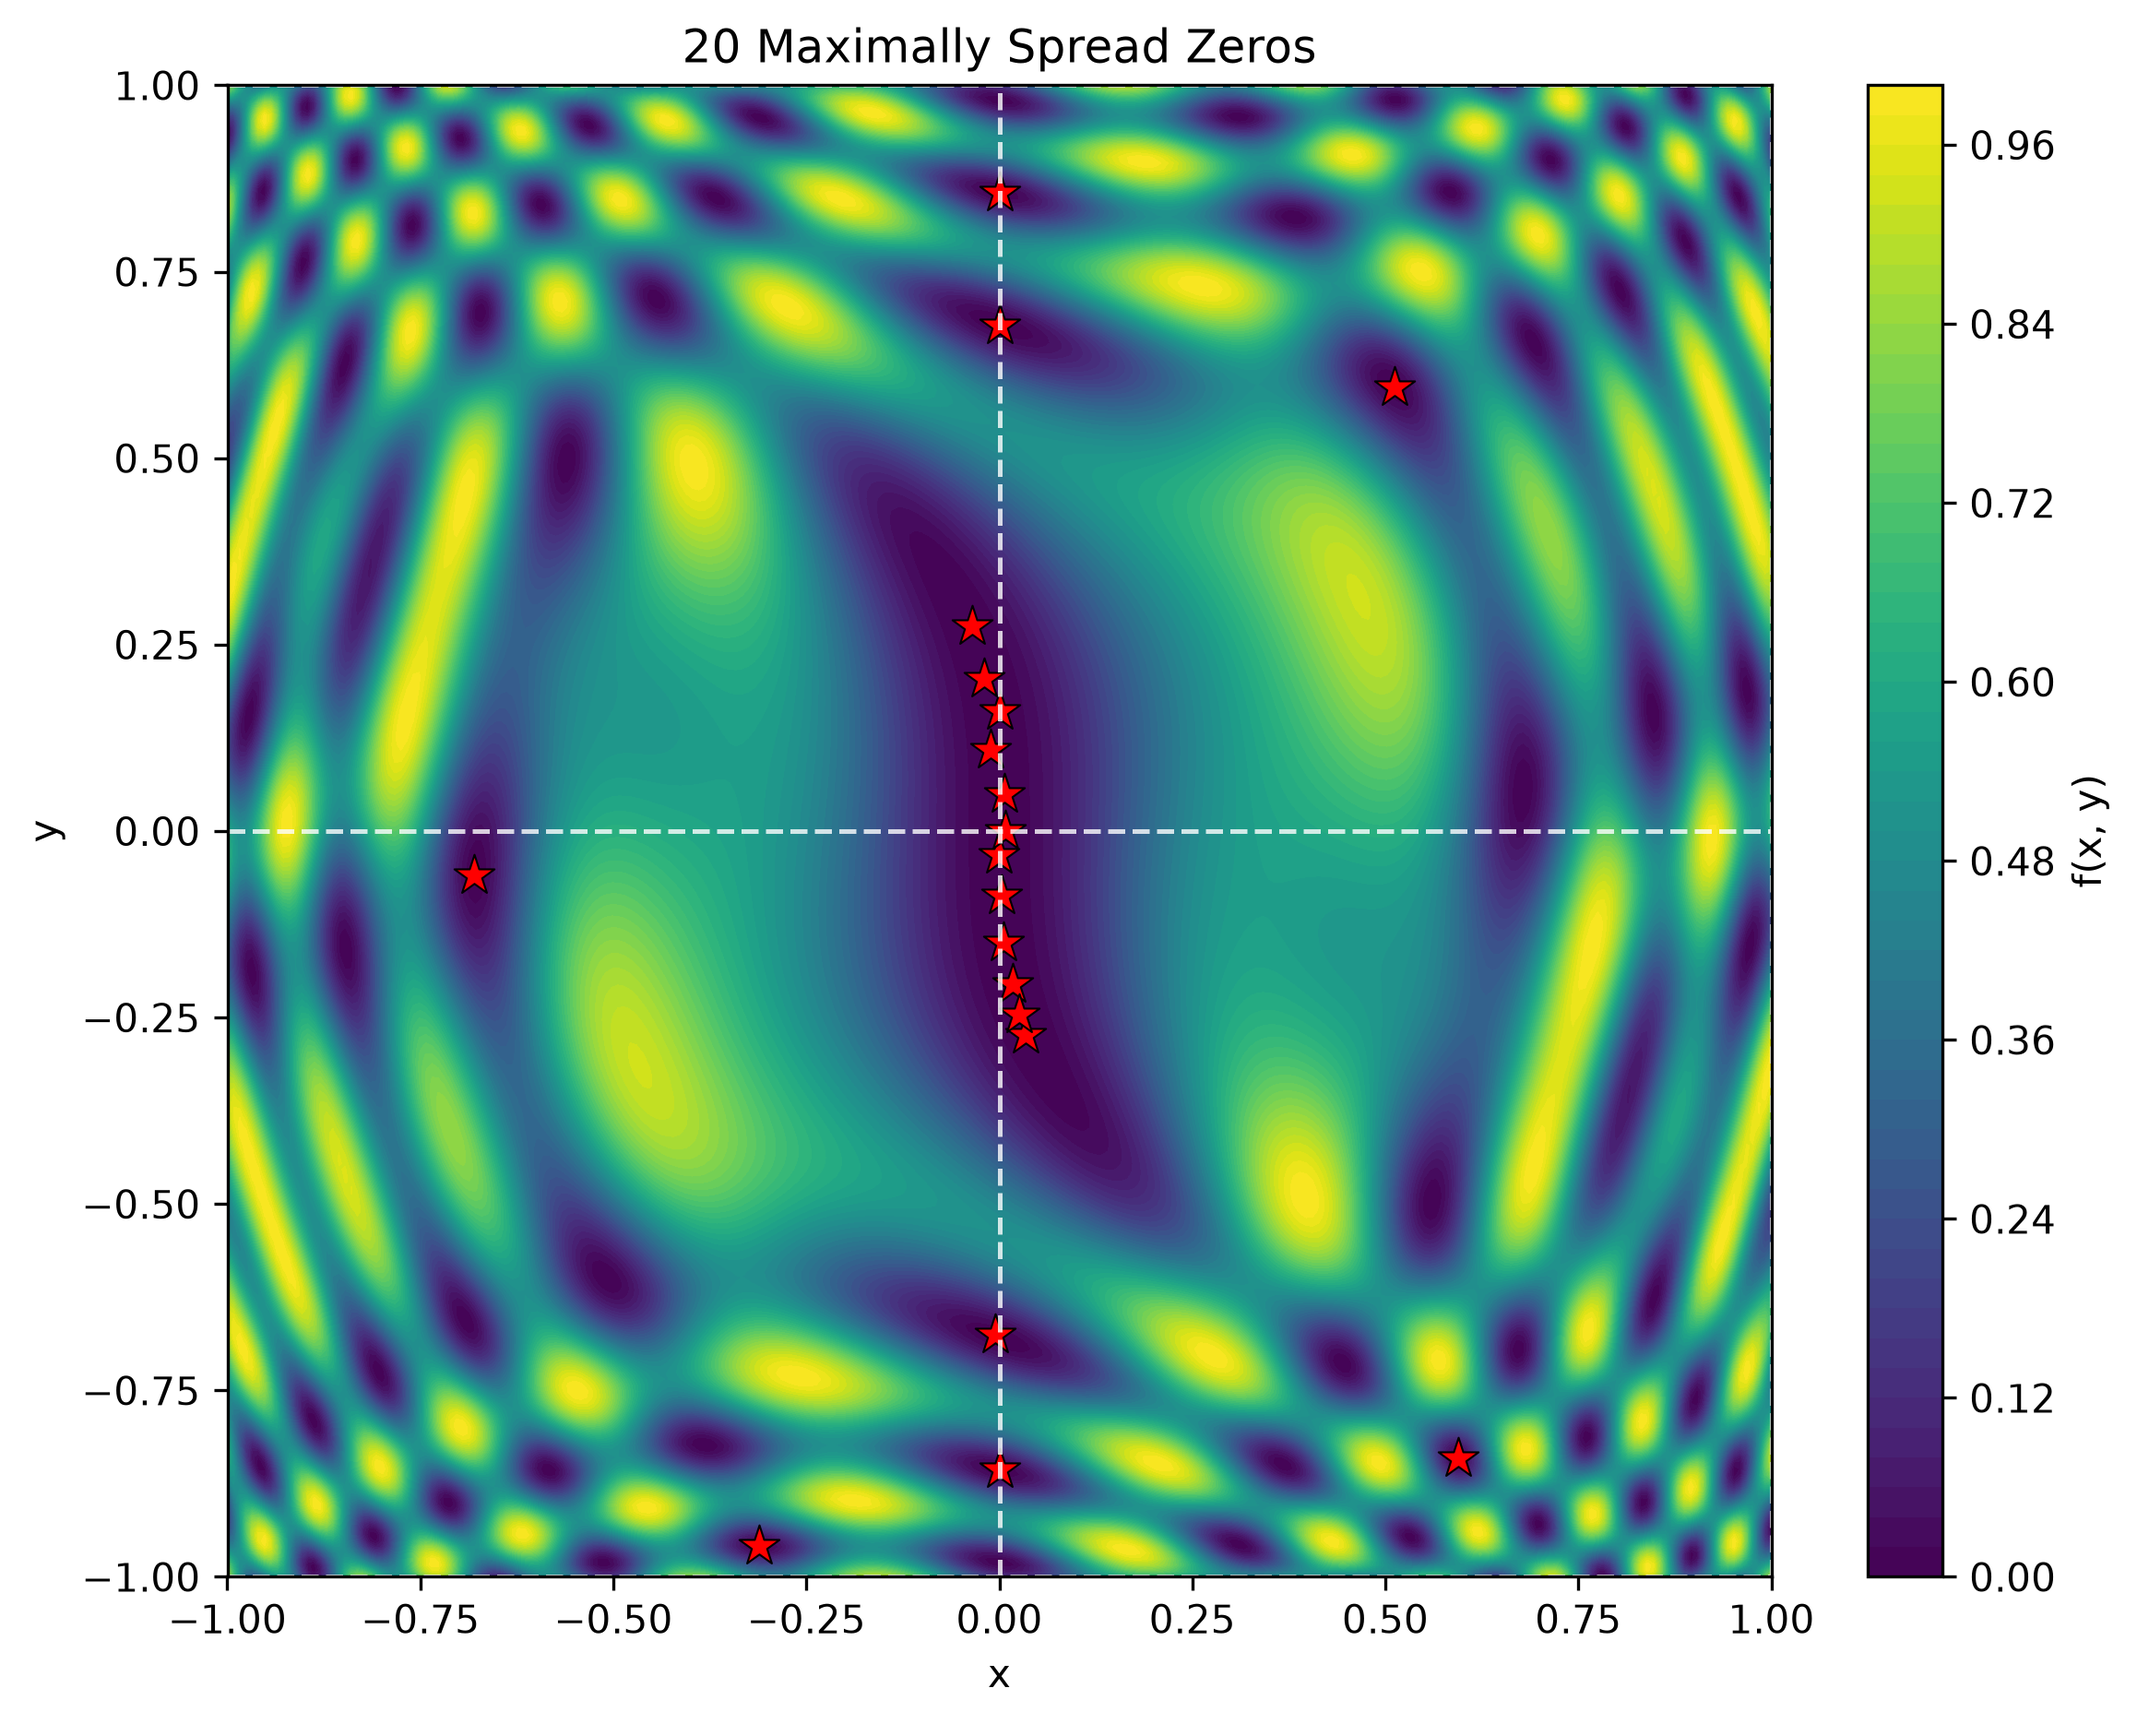
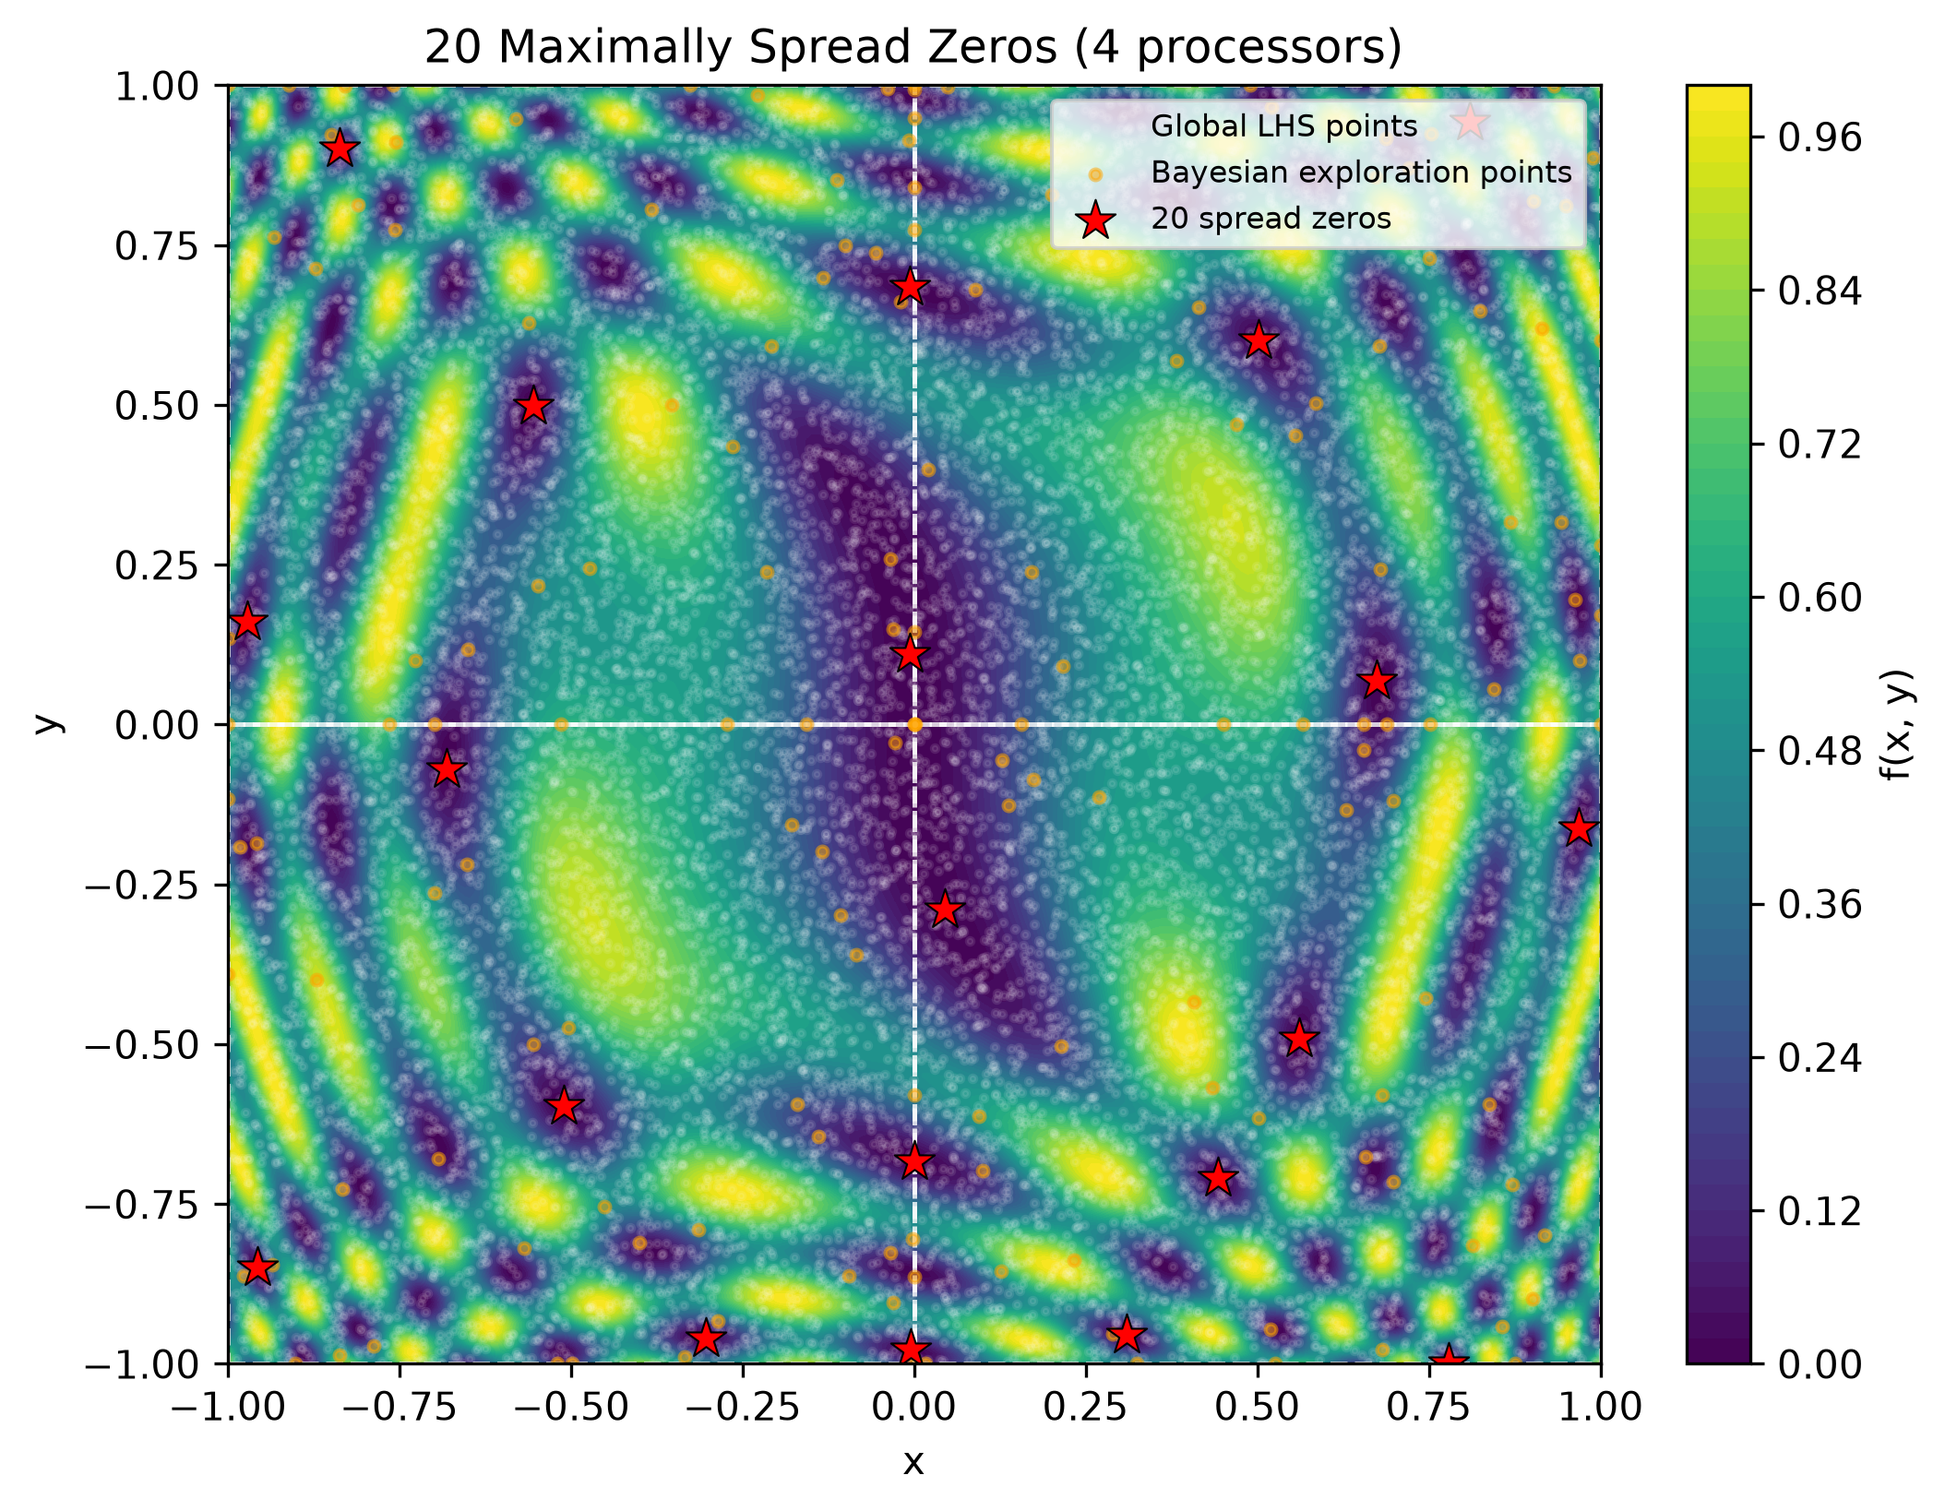
Clean optimization code and provide output and graphs as results

diff --git a/project2/optimization.py b/project2/optimization.py
@@ -1,17 +1,20 @@
 import math
 import matplotlib.pyplot as plt
-from mpi4py import MPI
 import numpy as np
 import pandas as pd
-from scipy.spatial.distance import cdist
+from matplotlib.patches import Rectangle
+from mpi4py import MPI
 from xopt import VOCS, Evaluator, Xopt
-from xopt.generators.bayesian import UpperConfidenceBoundGenerator, BayesianExplorationGenerator
+from xopt.generators.bayesian import BayesianExplorationGenerator
 from xopt.generators.scipy.latin_hypercube import LatinHypercubeGenerator
-from xopt.generators.ga.cnsga import CNSGAGenerator
 
 COMM = MPI.COMM_WORLD
 rank = COMM.Get_rank()
 size = COMM.Get_size()
+
+# Constants
+BOUNDS = (-1.0, 1.0)
+NUM_ZEROS = 20
 
 
 def equation(x, y):
@@ -24,28 +27,9 @@ def evaluate(inputs):
   return {"f": float(equation(inputs["x"], inputs["y"]))}
 
 
-def select_maxmin_dispersion(candidates, k=20):
-  """Select k candidates that are maximally spread apart."""
-  if len(candidates) <= k:
-    return candidates
-
-  dist_matrix = cdist(candidates, candidates)
-  selected_indices = [0]
-  min_dists = dist_matrix[:, 0]
-
-  for _ in range(1, k):
-    next_idx = np.argmax(min_dists)
-    selected_indices.append(next_idx)
-    min_dists = np.minimum(min_dists, dist_matrix[:, next_idx])
-  return candidates[selected_indices]
-
-
 def split_into_grid(z):
-  """Split the grid into even sections, one section per processor"""
+  """Split the domain into an n x n grid of sections, one per processor."""
   n = math.isqrt(z)
-  if n * n != z:
-    raise ValueError("Number of processors must be a perfect square.")
-
   edges = np.linspace(-1, 1, n + 1)
   sections = []
   for i in range(n):
@@ -58,128 +42,161 @@ def split_into_grid(z):
 
   return sections
 
-def space_filter_data(df, min_dist=0.05):
-    """Filters data so no two points are closer than min_dist in parameter space."""
-    kept_rows = []
-    points = df[["x", "y"]].to_numpy()
+def select_maxmin_dispersion(candidates, k=NUM_ZEROS):
+  """Greedy farthest-point selection of k candidates."""
+  if len(candidates) <= k:
+    return candidates
 
-    for i, pt in enumerate(points):
-        if not kept_rows:
-            kept_rows.append(i)
-            continue
+  selected = [0]
+  min_dists = np.linalg.norm(candidates - candidates[0], axis=1)
+  for _ in range(1, k):
+    nxt = int(np.argmax(min_dists))
+    selected.append(nxt)
+    min_dists = np.minimum(
+        min_dists, np.linalg.norm(candidates - candidates[nxt], axis=1)
+    )
+  return candidates[selected]
 
-        # Distance to previously accepted points
-        dists = np.linalg.norm(points[kept_rows] - pt, axis=1)
-        if np.all(dists >= min_dist):
-            kept_rows.append(i)
 
-    return df.iloc[kept_rows]
+def space_filter_data(df):
+  """Remove points so that no two are closer than 0.02 apart"""
+  points = df[["x", "y"]].to_numpy()
+  kept = []
+  for i, pt in enumerate(points):
+    if not kept or np.all(np.linalg.norm(points[kept] - pt, axis=1) >= 0.02):
+      kept.append(i)
+  return df.iloc[kept]
+
+
+def reduce_seed_data(df, rng):
+  """Thin and cap the seed data: half the best points, half random."""
+  df = space_filter_data(df)
+  if len(df) <= 200:
+    return df
+
+  # Bias towards points that are close to 0 and than select 100 additional, regardless of closeness to 0.
+  best = df.nsmallest(100, "f")
+  rest = df.drop(best.index)
+  extra = rest.iloc[rng.choice(len(rest), 100, replace=False)]
+  return pd.concat([best, extra])
+
+# Presets for the  evaluation function
+evaluator = Evaluator(function=evaluate)
+  
+# Split the sample space into even spaces based on the numbe of processors  
+regions = split_into_grid(size)
 
 if rank == 0:
-  grid_sections = split_into_grid(size)
+  # Constrain x and y withing (-1,1) than encourage the exploration of the sample space for the LatinHypercubeGenerator random point generator
+  global_vocs = VOCS(
+    variables={
+        "x": list(BOUNDS),
+        "y": list(BOUNDS),
+    },
+    objectives={"f": "EXPLORE"},
+  )
+
+  lhs_generator = LatinHypercubeGenerator(vocs=global_vocs, batch_size=16384)
+
+  X_lhs = Xopt(vocs=global_vocs, generator=lhs_generator, evaluator=evaluator)
+
+  for _ in range(16384):
+    X_lhs.step()
+
+  pts_array = X_lhs.data[["x", "y", "f"]].copy().to_numpy()
+
+  global_data = pd.DataFrame(pts_array, columns=["x", "y", "f"])
+  chunks = []
+  for section in regions:
+    x1, x2 = section["x"]
+    y1, y2 = section["y"]
+    x_mask = (pts_array[:, 0] >= x1) & (
+        (pts_array[:, 0] < x2) if x2 < BOUNDS[1] else (pts_array[:, 0] <= x2)
+    )
+    y_mask = (pts_array[:, 1] >= y1) & (
+        (pts_array[:, 1] < y2) if y2 < BOUNDS[1] else (pts_array[:, 1] <= y2)
+    )
+    chunks.append(pts_array[x_mask & y_mask])
 else:
-  grid_sections = None
+  global_data = None
+  chunks = None
 
-local_section = COMM.scatter(grid_sections, root=0)
+local_block = COMM.scatter(chunks, root=0)
+region_df = pd.DataFrame(local_block, columns=["x", "y", "f"])
 
-evaluator = Evaluator(function=evaluate)
+local_section = regions[rank]
+x1, x2 = local_section["x"]
+y1, y2 = local_section["y"]
 
-x1, x2, y1, y2 = (
-    local_section["x"][0],
-    local_section["x"][1],
-    local_section["y"][0],
-    local_section["y"][1],
+print(
+    f"[rank {rank}] region x=[{x1:.3f}, {x2:.3f}] y=[{y1:.3f}, {y2:.3f}] "
+    f"with {len(region_df)} global LHS points",
+    flush=True,
 )
+
+rng = np.random.default_rng(rank)
+local_new = pd.DataFrame(columns=["x", "y", "f"])
+
+seed_df = reduce_seed_data(region_df[["x", "y", "f"]], rng)
+
 vocs = VOCS(
-    variables={"x": [x1, x2], "y": [y1, y2]}, objectives={"f": "EXPLORE"}
-)
-
-generator = LatinHypercubeGenerator(vocs=vocs, batch_size=2048)
-
-# Use the Latin Hypercube for sampling the subdomain
-X = Xopt(vocs=vocs, generator=generator, evaluator=evaluator)
-
-for _ in range(2048):
-  X.step()
-
-vocs_opt = VOCS(
     variables={"x": [x1, x2], "y": [y1, y2]},
     objectives={"f": "EXPLORE"},
-    constraints={"f": ["LESS_THAN", 0.01]}
+    constraints={"f": ["LESS_THAN", 0.01]},
 )
+generator = BayesianExplorationGenerator(vocs=vocs)
+X = Xopt(vocs=vocs, generator=generator, evaluator=evaluator, data=seed_df)
 
-ga_generator = BayesianExplorationGenerator(
-    vocs=vocs_opt
-)
+for i in range(40):
+    X.step()
 
-# Set parameters as attributes afterwards
-ga_generator.n_candidates = 10
+# keep only what BO added; the seed points already live in global_data
+local_new = X.data.iloc[len(seed_df):][["x", "y", "f"]]
 
-filtered_data = space_filter_data(X.data, min_dist=0.05)
+gathered = COMM.gather(local_new, root=0)
 
-X_opt = Xopt(
-    vocs=vocs_opt, generator=ga_generator, evaluator=evaluator, data=filtered_data
-)
-
-# Run 10 iterations of the model training
-for i in range(10):
-    print(f"Iteration {i+1}")
-    X_opt.generator.train_model()
-    X_opt.step()
-
-gathered_data_list = COMM.gather(X_opt.data, root=0)
-
+# Wait until all processors are done with 
 COMM.Barrier()
 
 if rank == 0:
-  df = pd.concat(gathered_data_list, ignore_index=True)
+  bo_df = pd.concat(gathered, ignore_index=True)
+  df = pd.concat([global_data[["x", "y", "f"]], bo_df], ignore_index=True)
 
-  threshold = 0.005
-  candidate_zeros = df[df["f"] < threshold][["x", "y"]].to_numpy()
-
+  candidate_zeros = df[df["f"] < 0.005][["x", "y"]].to_numpy()
   if len(candidate_zeros) < 30:
-     candidate_zeros = df.nsmallest(100, "f")[["x", "y"]].to_numpy()
+    candidate_zeros = df.nsmallest(100, "f")[["x", "y"]].to_numpy()
 
-# Pick 20 widely spread zeros
-  spread_20_zeros = select_maxmin_dispersion(candidate_zeros, k=20)
-
-
-# --- Plotting ---
-  fig, ax = plt.subplots(figsize=(8, 6))
-
-# Background contour plot
-  x_grid = np.linspace(-1, 1, 250)
-  y_grid = np.linspace(-1, 1, 250)
-  XX, YY = np.meshgrid(x_grid, y_grid)
-  ZZ = equation(XX, YY)
-
-  contour = ax.contourf(XX, YY, ZZ, levels=50, cmap="viridis")
-  plt.colorbar(contour, label="f(x, y)")
-
-  n = math.isqrt(size)
-  edges = np.linspace(-1, 1, n + 1)
-
-  for edge in edges:
-    ax.axhline(edge, color="white", linestyle="--", linewidth=1.2, alpha=0.8)
-    ax.axvline(edge, color="white", linestyle="--", linewidth=1.2, alpha=0.8)
-
-# Plot all sampled points as small translucent dots
-  ax.scatter(df["x"], df["y"], c="white", alpha=0.2, s=8, label="Sampled Points")
-
-# Plot the 20 maximally separated zeros
-  ax.scatter(
-     spread_20_zeros[:, 0],
-     spread_20_zeros[:, 1],
-     c="red",
-     marker="*",
-     s=120,
-     edgecolors="black",
-     linewidths=0.5,
-     label="20 Spread Zeros"
+  spread = select_maxmin_dispersion(candidate_zeros, k=NUM_ZEROS)
+  print(
+      f"Total points: {len(df)} (LHS {len(global_data)}, BO {len(bo_df)}); "
+      f"zeros found: {len(candidate_zeros)}"
   )
 
+  fig, ax = plt.subplots(figsize=(8, 6))
+  xg = np.linspace(*BOUNDS, 250)
+  XX, YY = np.meshgrid(xg, xg)
+  contour = ax.contourf(XX, YY, equation(XX, YY), levels=50, cmap="viridis")
+  plt.colorbar(contour, label="f(x, y)")
+
+  # outline each processor's region
+  for sec in regions:
+    rx1, rx2 = sec["x"]
+    ry1, ry2 = sec["y"]
+    ax.add_patch(Rectangle((rx1, ry1), rx2 - rx1, ry2 - ry1, fill=False,
+                           edgecolor="white", linestyle="--", linewidth=1.2,
+                           alpha=0.8))
+
+  ax.scatter(global_data["x"], global_data["y"], c="white", alpha=0.1, s=3, label="Global LHS points")
+
+  ax.scatter(bo_df["x"], bo_df["y"], c="orange", alpha=0.5, s=8, label="Bayesian exploration points")
+
+  ax.scatter(spread[:, 0], spread[:, 1], c="red", marker="*", s=120, edgecolor="black", linewidths=0.5, label=f"{NUM_ZEROS} spread zeros")
+
+  ax.set_xlim(*BOUNDS)
+  ax.set_ylim(*BOUNDS)
   ax.set_xlabel("x")
   ax.set_ylabel("y")
-  ax.set_title("20 Maximally Spread Zeros")
-  plt.savefig("plot_4.png", dpi=300, bbox_inches="tight")
+  ax.set_title(f"{NUM_ZEROS} Maximally Spread Zeros ({size} processors)")
+  ax.legend(loc="upper right", fontsize=8)
+  plt.savefig(f"plot_{size}.png", dpi=300, bbox_inches="tight")
   plt.close()
